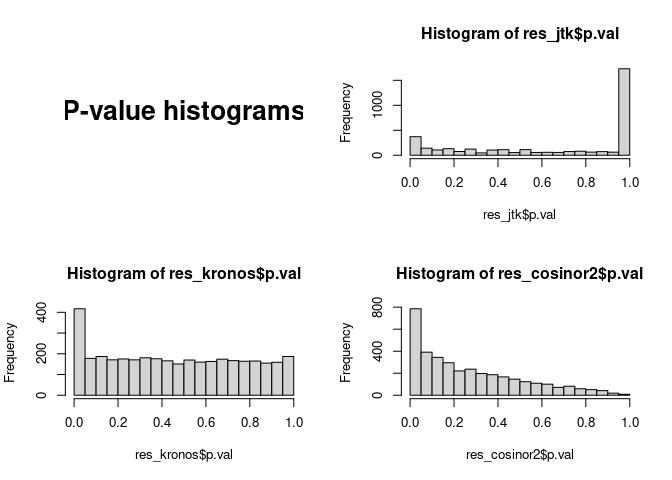
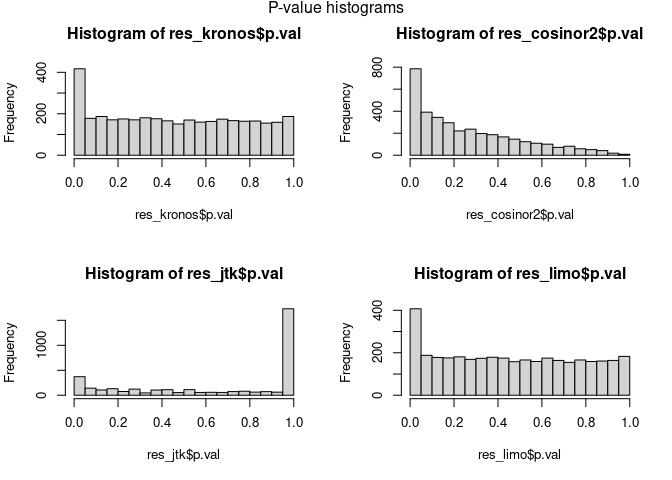
push

diff --git a/benchmark/benchmarking.md b/benchmark/benchmarking.md
@@ -1,3 +1,5 @@
+## Preparation
+
 Here, we will compare the performance of Kronos to that of three common
 R-based tools to assess rhythmic data. First, we will load the required
 packages.
@@ -46,7 +48,7 @@ colnames(res_tot) = paste(colnames(res_tot), c(rep("kronos", ncol(res_kronos)),
                                                rep("cosinor2",    ncol(res_cosinor2))), sep = "_")
 ```
 
-\#Comparing p-value distributions between programs
+## Comparing p-value distributions between programs
 
 Theoretically, we expect a uniform distribution between 0-1 (for the
 cases where H_0 is true) as well as an inflation of low p-values (for
@@ -54,25 +56,21 @@ the cases where H_1 is true).
 
 ``` r
 par(mfcol = c(2, 2))
-plot.new()
-text(0.5,0.5,"P-value histograms",cex=2,font=2)
+
 hist(res_kronos$p.val,   breaks = 20)
 hist(res_jtk$p.val,      breaks = 20)
 hist(res_cosinor2$p.val, breaks = 20)
+hist(res_limo$p.val,     breaks = 20)
+mtext("P-value histograms", side = 3, line = -1, outer = TRUE)
 ```
 
 ![](benchmarking_files/figure-gfm/plot%20stats-1.png)<!-- -->
 
-``` r
-hist(res_limo$p.val,     breaks = 20)
-```
+Both Limorhyde and Kronos show a desirable distribution of p-values,
+whereas JTK_CYCLE has an inflation on the higher end and Cosinor2 has a
+skewed, non-uniform distribution in the H_0 region.
 
-![](benchmarking_files/figure-gfm/plot%20stats-2.png)<!-- --> Both
-Limorhyde and Kronos show a desirable distribution of p-values, whereas
-JTK_CYCLE has an inflation on the higher end and Cosinor2 has a skewed,
-non-uniform distribution in the H_0 region.
-
-\#Comparing hits between programs
+## Comparing acrophases between programs
 
 ``` r
 res_tot %>%
@@ -90,7 +88,16 @@ res_tot %>%
   ggtitle("Concordance in acrophase detection between Kronos, JTK_CYCLE and Cosinor2")
 ```
 
-![](benchmarking_files/figure-gfm/plot%20tools-1.png)<!-- -->
+![](benchmarking_files/figure-gfm/plot%20acrophases-1.png)<!-- --> All
+three programs that produce acrophases are in agreement as to where the
+acrophases of features foudn to be rhythmic at p \< 0.05 at least once
+are. Limorhyde does not have a clear method to return acrophases.
+
+## Plot agreement in hits between programs
+
+In the venn diagram we see how many features are considered hits (p\<
+0.05) by the respective programs Alternatively, the UpSetR plot below
+shows the same.
 
 ``` r
 list(kronos    = row.names(res_tot[res_tot$p.val_kronos   < 0.05,]),
@@ -101,7 +108,7 @@ list(kronos    = row.names(res_tot[res_tot$p.val_kronos   < 0.05,]),
   ggtitle("Venn diagram showing agreement between features rhythmic at p < 0.05")
 ```
 
-![](benchmarking_files/figure-gfm/plot%20tools-2.png)<!-- -->
+![](benchmarking_files/figure-gfm/plot%20hist-1.png)<!-- -->
 
 ``` r
 list(kronos    = row.names(res_tot[res_tot$p.val_kronos   < 0.05,]),
@@ -114,4 +121,160 @@ list(kronos    = row.names(res_tot[res_tot$p.val_kronos   < 0.05,]),
                 sets.x.label = "Number of p-values < 0.05\n per program")
 ```
 
-![](benchmarking_files/figure-gfm/plot%20tools-3.png)<!-- -->
+![](benchmarking_files/figure-gfm/plot%20hist-2.png)<!-- --> From this,
+we can conclude that Kronos performs as well as (or better than) the
+best comparable program in each category. Furthermore, Kronos allows for
+convenient testing of arbitrarily complex models and comes with
+pre-designed ggplot-compatible plotting functions.
+
+## Session Info
+
+``` r
+sessioninfo::session_info()
+```
+
+    ## ─ Session info ───────────────────────────────────────────────────────────────
+    ##  setting  value
+    ##  version  R version 4.1.2 (2021-11-01)
+    ##  os       Ubuntu 20.04.3 LTS
+    ##  system   x86_64, linux-gnu
+    ##  ui       X11
+    ##  language en_GB:en
+    ##  collate  en_GB.UTF-8
+    ##  ctype    en_GB.UTF-8
+    ##  tz       Europe/Dublin
+    ##  date     2023-03-17
+    ##  pandoc   2.19.2 @ /usr/lib/rstudio/bin/quarto/bin/tools/ (via rmarkdown)
+    ## 
+    ## ─ Packages ───────────────────────────────────────────────────────────────────
+    ##  package          * version  date (UTC) lib source
+    ##  annotate           1.72.0   2021-10-26 [1] Bioconductor
+    ##  AnnotationDbi      1.56.2   2021-11-09 [1] Bioconductor
+    ##  assertthat         0.2.1    2019-03-21 [1] CRAN (R 4.1.2)
+    ##  backports          1.4.1    2021-12-13 [1] CRAN (R 4.1.2)
+    ##  base64enc          0.1-3    2015-07-28 [1] CRAN (R 4.1.2)
+    ##  Biobase            2.54.0   2021-10-26 [1] Bioconductor
+    ##  BiocGenerics       0.40.0   2021-10-26 [1] Bioconductor
+    ##  Biostrings         2.62.0   2021-10-26 [1] Bioconductor
+    ##  bit                4.0.4    2020-08-04 [1] CRAN (R 4.1.2)
+    ##  bit64              4.0.5    2020-08-30 [1] CRAN (R 4.1.2)
+    ##  bitops             1.0-7    2021-04-24 [1] CRAN (R 4.1.2)
+    ##  blob               1.2.3    2022-04-10 [1] CRAN (R 4.1.2)
+    ##  broom              0.8.0    2022-04-13 [1] CRAN (R 4.1.2)
+    ##  cachem             1.0.6    2021-08-19 [1] CRAN (R 4.1.2)
+    ##  cellranger         1.1.0    2016-07-27 [1] CRAN (R 4.1.2)
+    ##  checkmate          2.0.0    2020-02-06 [1] CRAN (R 4.1.2)
+    ##  cli                3.3.0    2022-04-25 [1] CRAN (R 4.1.2)
+    ##  cluster            2.1.2    2021-04-17 [4] CRAN (R 4.0.5)
+    ##  colorspace         2.0-3    2022-02-21 [1] CRAN (R 4.1.2)
+    ##  cosinor          * 1.2.2    2022-05-24 [1] CRAN (R 4.1.2)
+    ##  cosinor2         * 0.2.1    2018-10-15 [1] CRAN (R 4.1.2)
+    ##  cowplot            1.1.1    2020-12-30 [1] CRAN (R 4.1.2)
+    ##  crayon             1.5.1    2022-03-26 [1] CRAN (R 4.1.2)
+    ##  data.table         1.14.2   2021-09-27 [1] CRAN (R 4.1.2)
+    ##  DBI                1.1.2    2021-12-20 [1] CRAN (R 4.1.2)
+    ##  dbplyr             2.2.0    2022-06-05 [1] CRAN (R 4.1.2)
+    ##  deleuze          * 0.1.0.0  2022-12-30 [1] Github (thomazbastiaanssen/deleuze@2c19a87)
+    ##  digest             0.6.29   2021-12-01 [1] CRAN (R 4.1.2)
+    ##  dplyr            * 1.0.9    2022-04-28 [1] CRAN (R 4.1.2)
+    ##  ellipsis           0.3.2    2021-04-29 [1] CRAN (R 4.1.2)
+    ##  evaluate           0.15     2022-02-18 [1] CRAN (R 4.1.2)
+    ##  fansi              1.0.3    2022-03-24 [1] CRAN (R 4.1.2)
+    ##  farver             2.1.1    2022-07-06 [1] CRAN (R 4.1.2)
+    ##  fastmap            1.1.0    2021-01-25 [1] CRAN (R 4.1.2)
+    ##  forcats          * 0.5.1    2021-01-27 [1] CRAN (R 4.1.2)
+    ##  foreign            0.8-81   2020-12-22 [4] CRAN (R 4.0.3)
+    ##  Formula            1.2-4    2020-10-16 [1] CRAN (R 4.1.2)
+    ##  fs                 1.5.2    2021-12-08 [1] CRAN (R 4.1.2)
+    ##  genefilter         1.76.0   2021-10-26 [1] Bioconductor
+    ##  generics           0.1.2    2022-01-31 [1] CRAN (R 4.1.2)
+    ##  GenomeInfoDb       1.30.1   2022-01-30 [1] Bioconductor
+    ##  GenomeInfoDbData   1.2.7    2021-12-25 [1] Bioconductor
+    ##  ggforce          * 0.3.3    2021-03-05 [1] CRAN (R 4.1.2)
+    ##  ggplot2          * 3.3.6    2022-05-03 [1] CRAN (R 4.1.2)
+    ##  ggvenn           * 0.1.9    2021-06-29 [1] CRAN (R 4.1.2)
+    ##  glue               1.6.2    2022-02-24 [1] CRAN (R 4.1.2)
+    ##  gridExtra          2.3      2017-09-09 [1] CRAN (R 4.1.2)
+    ##  gtable             0.3.0    2019-03-25 [1] CRAN (R 4.1.2)
+    ##  haven              2.5.0    2022-04-15 [1] CRAN (R 4.1.2)
+    ##  highr              0.9      2021-04-16 [1] CRAN (R 4.1.2)
+    ##  Hmisc              4.6-0    2021-10-07 [1] CRAN (R 4.1.2)
+    ##  hms                1.1.1    2021-09-26 [1] CRAN (R 4.1.2)
+    ##  htmlTable          2.4.0    2022-01-04 [1] CRAN (R 4.1.2)
+    ##  htmltools          0.5.2    2021-08-25 [1] CRAN (R 4.1.2)
+    ##  htmlwidgets        1.5.4    2021-09-08 [1] CRAN (R 4.1.2)
+    ##  httpuv             1.6.5    2022-01-05 [1] CRAN (R 4.1.2)
+    ##  httr               1.4.3    2022-05-04 [1] CRAN (R 4.1.2)
+    ##  IRanges            2.28.0   2021-10-26 [1] Bioconductor
+    ##  jpeg               0.1-9    2021-07-24 [1] CRAN (R 4.1.2)
+    ##  jsonlite           1.8.0    2022-02-22 [1] CRAN (R 4.1.2)
+    ##  KEGGREST           1.34.0   2021-10-26 [1] Bioconductor
+    ##  knitr              1.39     2022-04-26 [1] CRAN (R 4.1.2)
+    ##  kronos           * 0.1.0.0  2023-03-07 [1] Github (thomazbastiaanssen/kronos@540e437)
+    ##  labeling           0.4.2    2020-10-20 [1] CRAN (R 4.1.2)
+    ##  later              1.3.0    2021-08-18 [1] CRAN (R 4.1.2)
+    ##  lattice            0.20-45  2021-09-22 [4] CRAN (R 4.1.1)
+    ##  latticeExtra       0.6-29   2019-12-19 [1] CRAN (R 4.1.2)
+    ##  lifecycle          1.0.1    2021-09-24 [1] CRAN (R 4.1.2)
+    ##  limorhyde        * 1.0.1    2022-02-18 [1] CRAN (R 4.1.2)
+    ##  lubridate          1.8.0    2021-10-07 [1] CRAN (R 4.1.2)
+    ##  magrittr           2.0.3    2022-03-30 [1] CRAN (R 4.1.2)
+    ##  MASS               7.3-54   2021-05-03 [4] CRAN (R 4.0.5)
+    ##  Matrix             1.4-0    2021-12-08 [4] CRAN (R 4.1.2)
+    ##  matrixStats        0.62.0   2022-04-19 [1] CRAN (R 4.1.2)
+    ##  memoise            2.0.1    2021-11-26 [1] CRAN (R 4.1.2)
+    ##  mime               0.12     2021-09-28 [1] CRAN (R 4.1.2)
+    ##  modelr             0.1.8    2020-05-19 [1] CRAN (R 4.1.2)
+    ##  munsell            0.5.0    2018-06-12 [1] CRAN (R 4.1.2)
+    ##  nnet               7.3-16   2021-05-03 [4] CRAN (R 4.0.5)
+    ##  pillar             1.7.0    2022-02-01 [1] CRAN (R 4.1.2)
+    ##  pkgconfig          2.0.3    2019-09-22 [1] CRAN (R 4.1.2)
+    ##  plyr               1.8.7    2022-03-24 [1] CRAN (R 4.1.2)
+    ##  png                0.1-7    2013-12-03 [1] CRAN (R 4.1.2)
+    ##  polyclip           1.10-0   2019-03-14 [1] CRAN (R 4.1.2)
+    ##  promises           1.2.0.1  2021-02-11 [1] CRAN (R 4.1.2)
+    ##  purrr            * 0.3.4    2020-04-17 [1] CRAN (R 4.1.2)
+    ##  R6                 2.5.1    2021-08-19 [1] CRAN (R 4.1.2)
+    ##  RColorBrewer       1.1-3    2022-04-03 [1] CRAN (R 4.1.2)
+    ##  Rcpp               1.0.9    2022-07-08 [1] CRAN (R 4.1.2)
+    ##  RCurl              1.98-1.7 2022-06-09 [1] CRAN (R 4.1.2)
+    ##  readr            * 2.1.2    2022-01-30 [1] CRAN (R 4.1.2)
+    ##  readxl             1.4.0    2022-03-28 [1] CRAN (R 4.1.2)
+    ##  reprex             2.0.1    2021-08-05 [1] CRAN (R 4.1.2)
+    ##  rlang              1.0.4    2022-07-12 [1] CRAN (R 4.1.2)
+    ##  rmarkdown          2.14     2022-04-25 [1] CRAN (R 4.1.2)
+    ##  rpart              4.1-15   2019-04-12 [4] CRAN (R 4.0.0)
+    ##  RSQLite            2.2.9    2021-12-06 [1] CRAN (R 4.1.2)
+    ##  rstudioapi         0.13     2020-11-12 [1] CRAN (R 4.1.2)
+    ##  rvest              1.0.2    2021-10-16 [1] CRAN (R 4.1.2)
+    ##  S4Vectors          0.32.4   2022-03-24 [1] Bioconductor
+    ##  scales             1.2.0    2022-04-13 [1] CRAN (R 4.1.2)
+    ##  sessioninfo        1.2.2    2021-12-06 [1] CRAN (R 4.1.2)
+    ##  shiny              1.7.1    2021-10-02 [1] CRAN (R 4.1.2)
+    ##  stringi            1.7.6    2021-11-29 [1] CRAN (R 4.1.2)
+    ##  stringr          * 1.4.0    2019-02-10 [1] CRAN (R 4.1.2)
+    ##  survival           3.2-13   2021-08-24 [4] CRAN (R 4.1.1)
+    ##  tibble           * 3.1.7    2022-05-03 [1] CRAN (R 4.1.2)
+    ##  tidyr            * 1.2.0    2022-02-01 [1] CRAN (R 4.1.2)
+    ##  tidyselect         1.1.2    2022-02-21 [1] CRAN (R 4.1.2)
+    ##  tidyverse        * 1.3.1    2021-04-15 [1] CRAN (R 4.1.2)
+    ##  tweenr             1.0.2    2021-03-23 [1] CRAN (R 4.1.2)
+    ##  tzdb               0.3.0    2022-03-28 [1] CRAN (R 4.1.2)
+    ##  UpSetR           * 1.4.0    2019-05-22 [1] CRAN (R 4.1.2)
+    ##  utf8               1.2.2    2021-07-24 [1] CRAN (R 4.1.2)
+    ##  vctrs              0.4.1    2022-04-13 [1] CRAN (R 4.1.2)
+    ##  withr              2.5.0    2022-03-03 [1] CRAN (R 4.1.2)
+    ##  xfun               0.31     2022-05-10 [1] CRAN (R 4.1.2)
+    ##  XML                3.99-0.8 2021-09-17 [1] CRAN (R 4.1.2)
+    ##  xml2               1.3.3    2021-11-30 [1] CRAN (R 4.1.2)
+    ##  xtable             1.8-4    2019-04-21 [1] CRAN (R 4.1.2)
+    ##  XVector            0.34.0   2021-10-26 [1] Bioconductor
+    ##  yaml               2.3.5    2022-02-21 [1] CRAN (R 4.1.2)
+    ##  zlibbioc           1.40.0   2021-10-26 [1] Bioconductor
+    ## 
+    ##  [1] /home/thomaz/R/x86_64-pc-linux-gnu-library/4.1
+    ##  [2] /usr/local/lib/R/site-library
+    ##  [3] /usr/lib/R/site-library
+    ##  [4] /usr/lib/R/library
+    ## 
+    ## ──────────────────────────────────────────────────────────────────────────────
